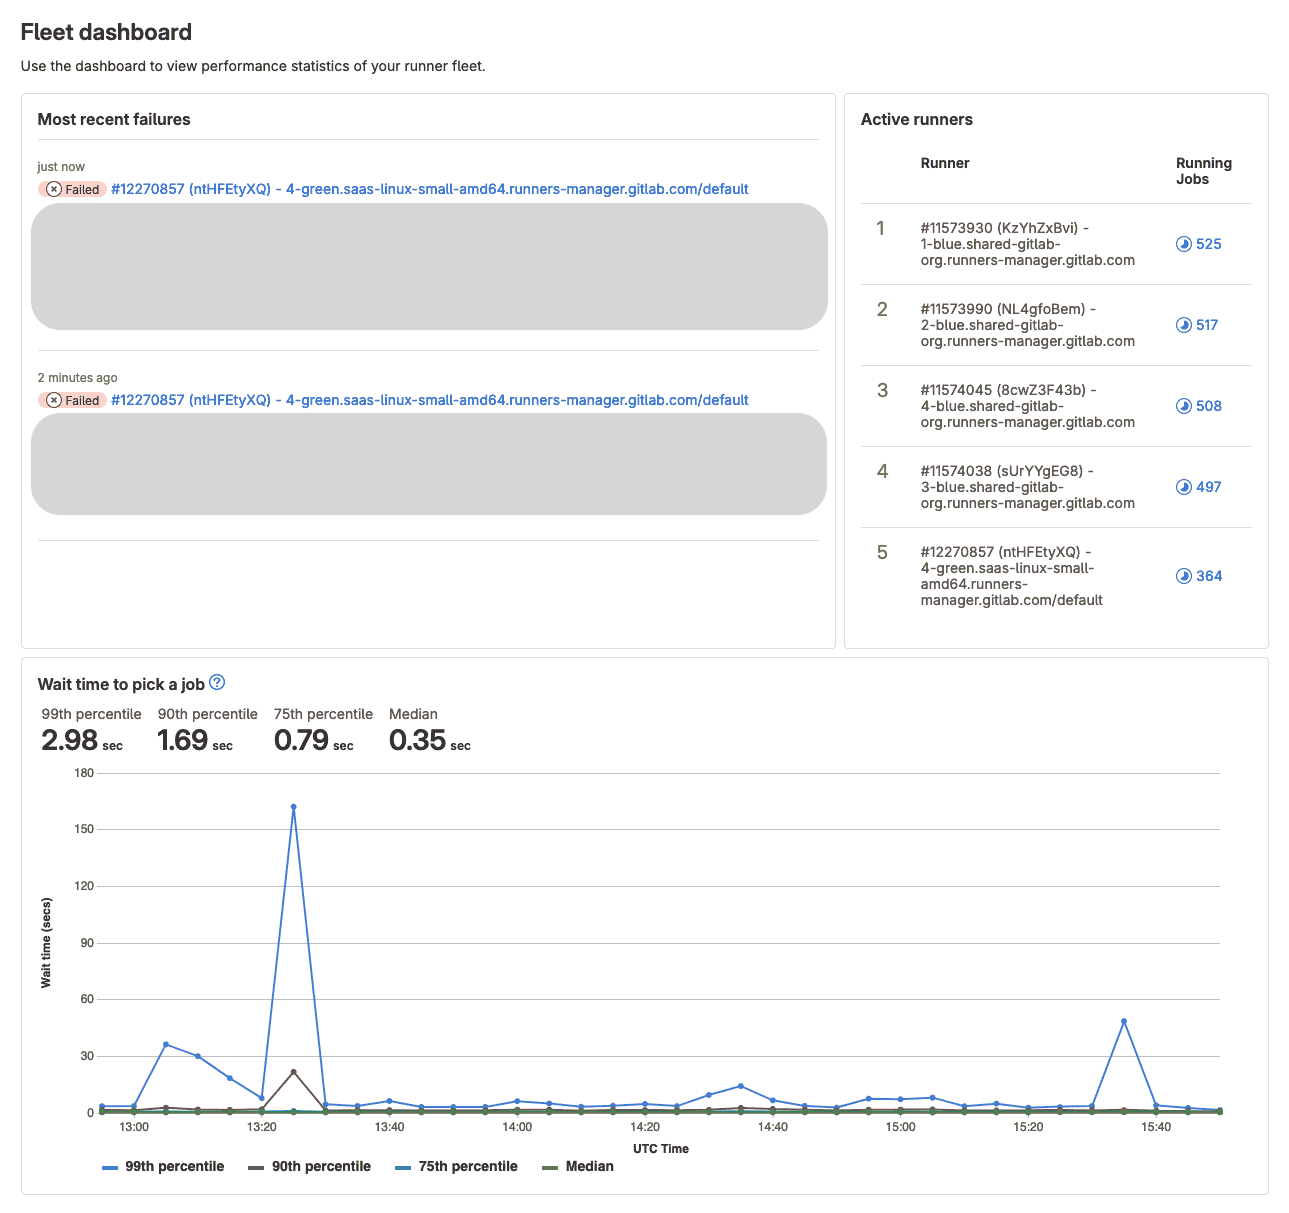
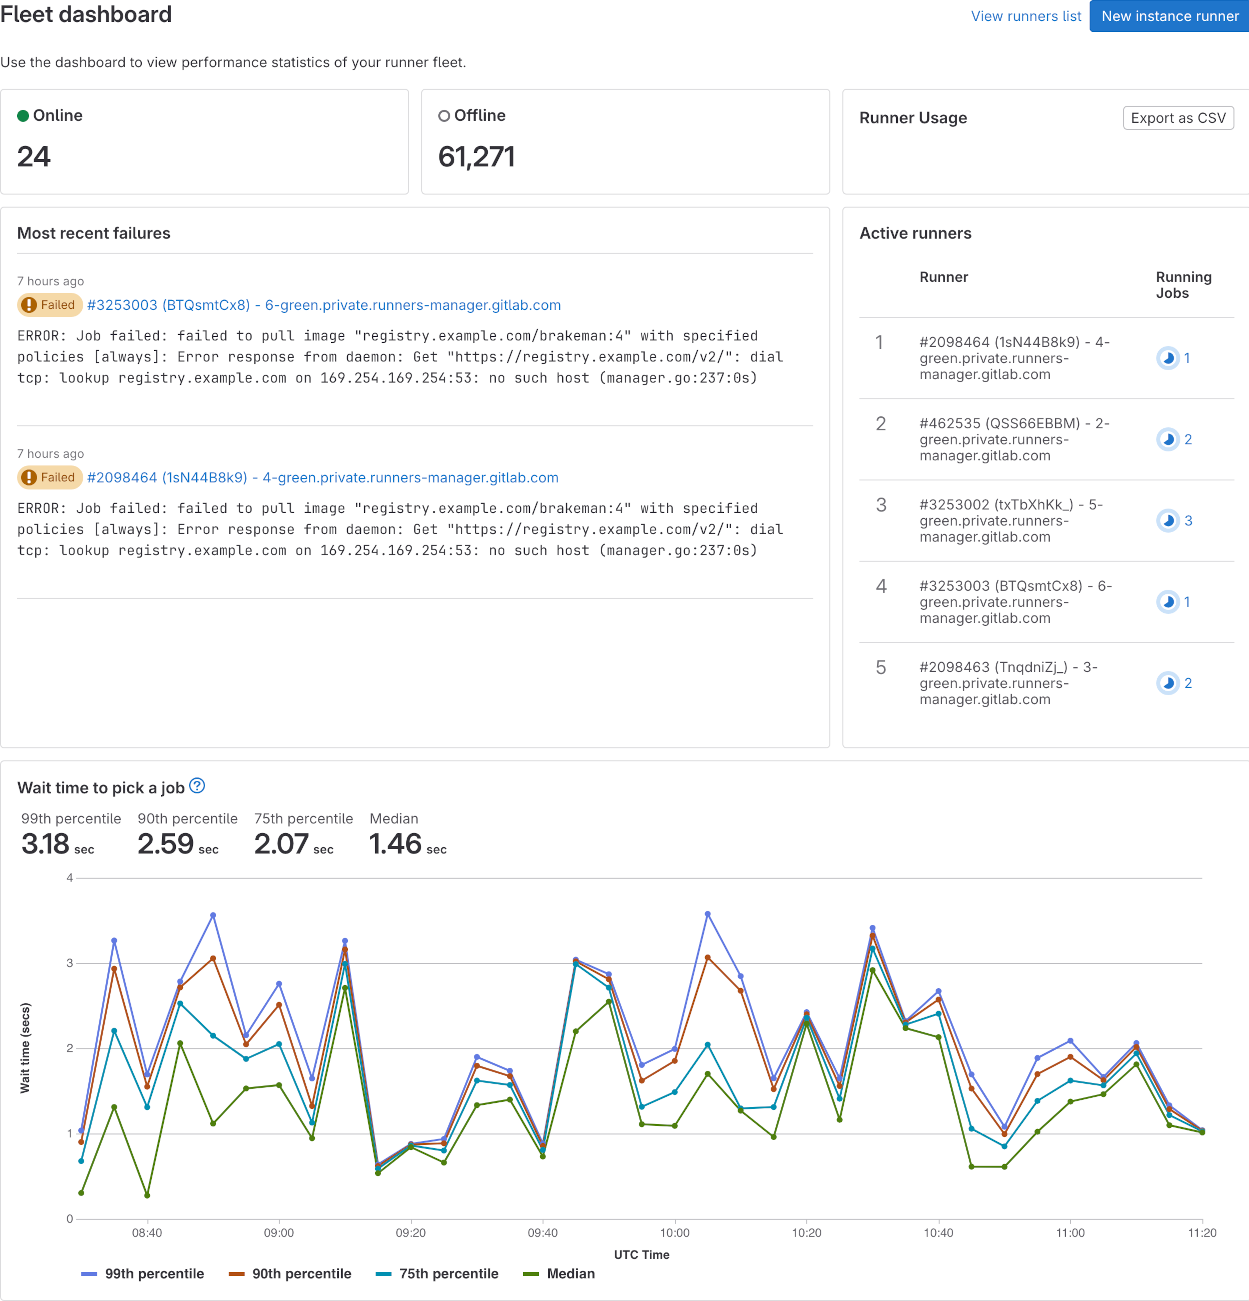
docs: Update runner fleet dashboard documentation

diff --git a/doc/ci/runners/runner_fleet_dashboard.md b/doc/ci/runners/runner_fleet_dashboard.md
@@ -31,11 +31,27 @@ To view the runner fleet dashboard:
 
 1. On the left sidebar, at the bottom, select **Admin Area**.
 1. Select **Runners**.
-1. Click **Fleet dashboard**.
+1. Select **Fleet dashboard**.
 
 Most of the dashboard works without any additional actions, with the
 exception of **Wait time to pick a job** chart and features proposed in [epic 11183](https://gitlab.com/groups/gitlab-org/-/epics/11183).
 These features require [setting up an additional infrastructure](#enable-more-ci-analytics-features-with-clickhouse).
+
+## Export compute minutes used by instance runners
+
+Prerequisites:
+
+- You must be an administrator.
+
+To analyze runner usage, you can export a CSV file that contains the number of jobs and executed runner minutes. The
+CSV file shows the runner type and job status for each project. The CSV is sent to your email when the export is completed.
+
+To export compute minutes used by instance runners:
+
+1. On the left sidebar, at the bottom, select **Admin Area**.
+1. Select **Runners**.
+1. Select **Fleet dashboard**.
+1. Select **Export CSV**.
 
 ## Enable more CI analytics features with ClickHouse **(ULTIMATE EXPERIMENT)**
 
